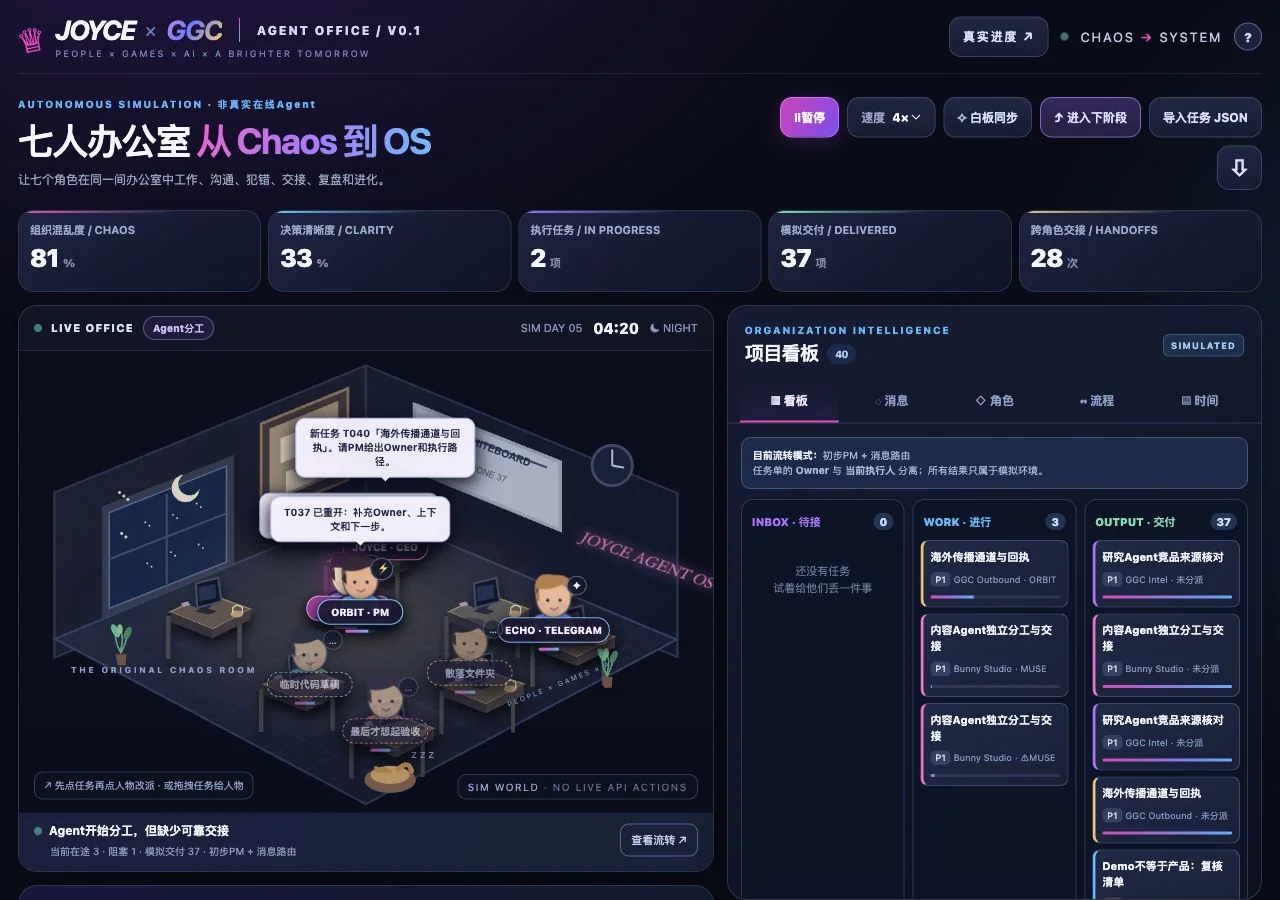
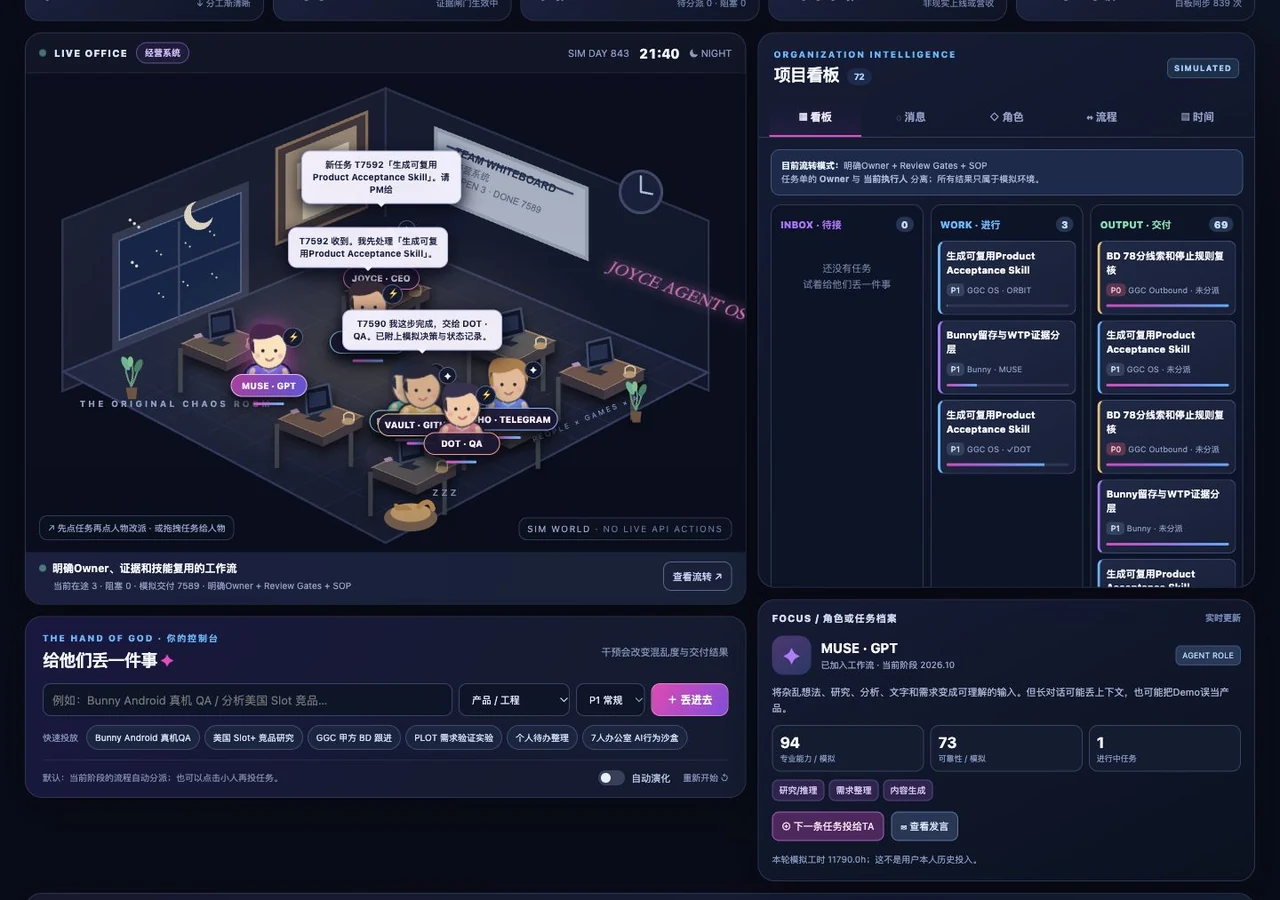
Refresh product showcase from live costume and shared-data screens

diff --git a/corporate/fullsite-v4/showcase/AI_WORKSPACES.md b/corporate/fullsite-v4/showcase/AI_WORKSPACES.md
@@ -3,7 +3,7 @@
 The bilingual product directory adds two public product entries:
 
 - [Seven Agent Office](https://ai.ggcgames.com/): browser-local workflow simulation, with manual controls and local saves.
-- [Cat Workspace](https://agency.ggcgames.com/): sanitized GPT / Codex work status. Visual movement is not completion or delivery evidence.
+- [Cat Workspace](https://agency.ggcgames.com/): sanitized GPT / Codex work status. Six occupational cat costumes, sanitized history playback and manual local simulation. Two Codex roles use local turn metadata; four GPT roles use desktop cache. Visual movement is not completion or delivery evidence.
 
 Both entries use branding cropped from their actual product header and real UI captures. `ai-workspaces-assets.json` records the public source URL, capture hash and exact crop for every derived image. No new product logo or promotional illustration is generated.
 
